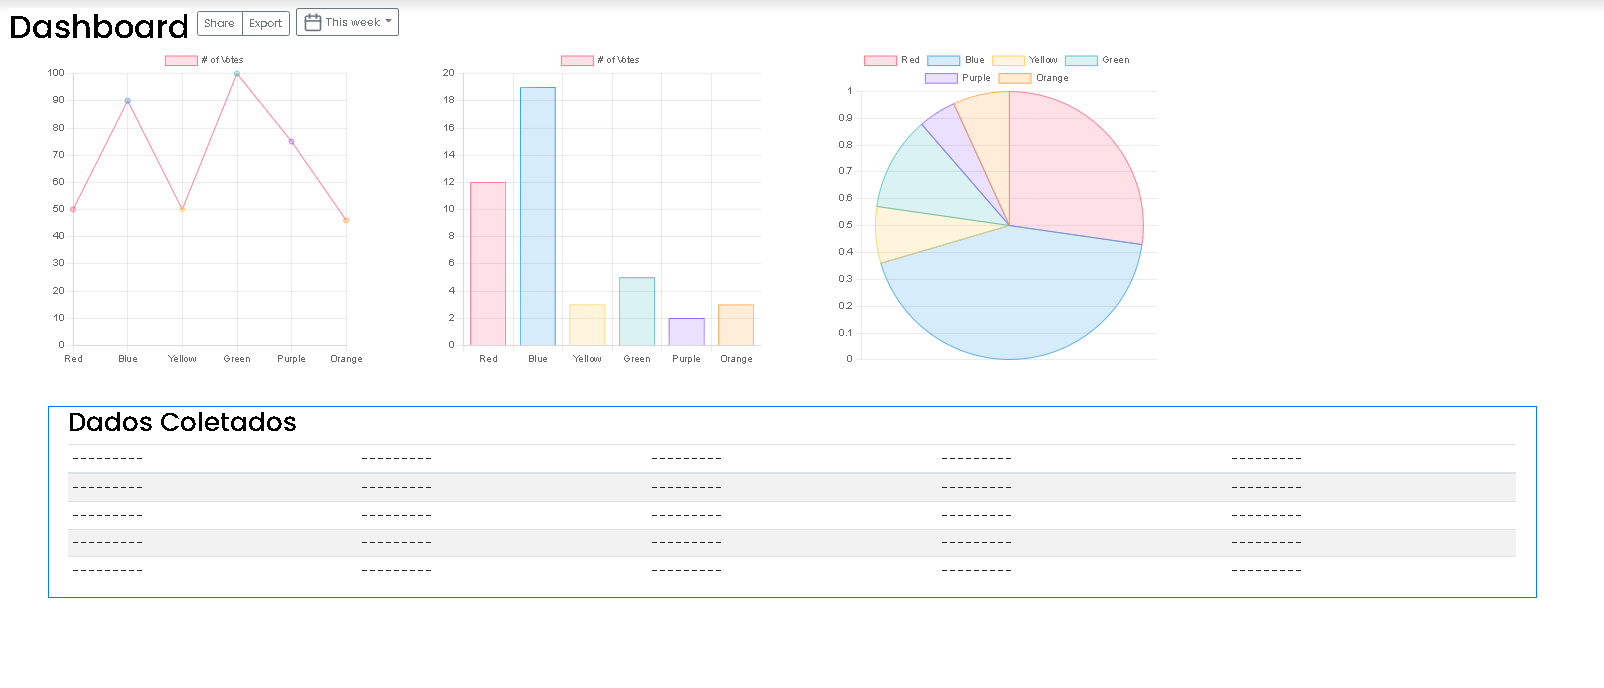
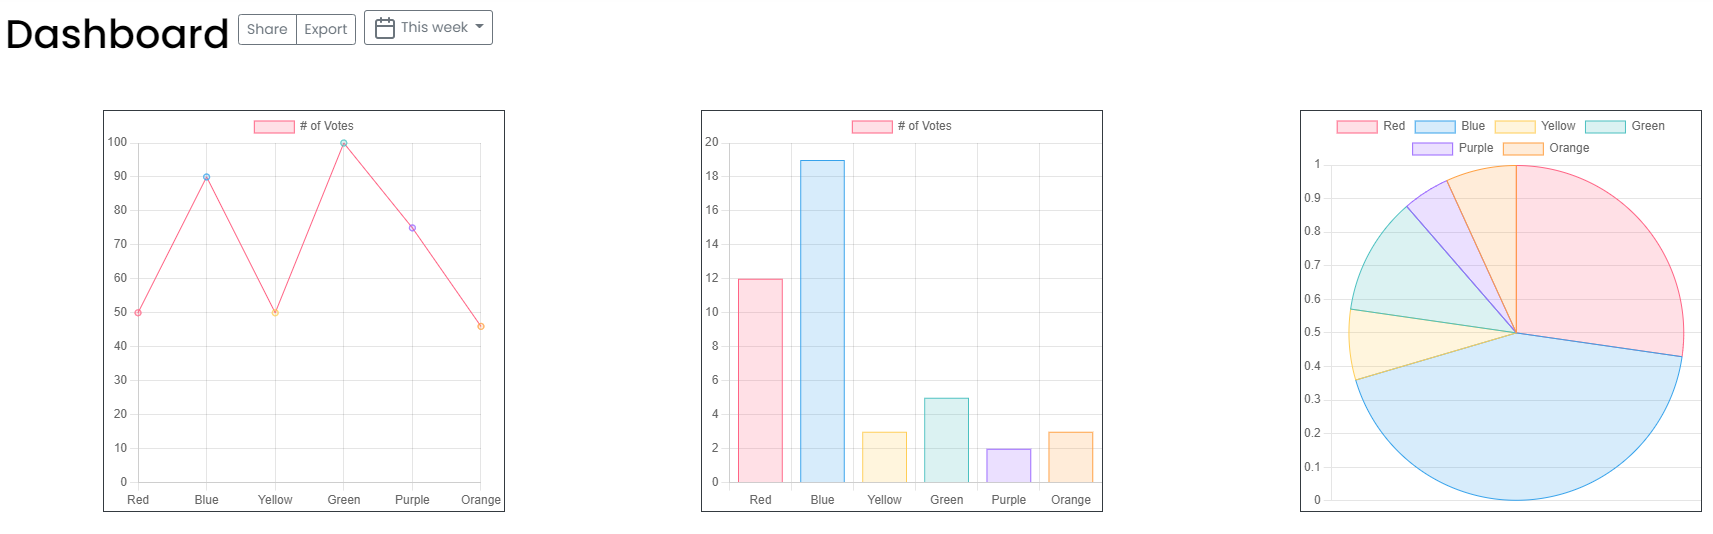
atualizacao home_page2

diff --git a/home_page.html b/home_page.html
@@ -13,6 +13,7 @@
   <link rel="stylesheet" href="https://cdn.jsdelivr.net/npm/bootstrap@4.3.1/dist/css/bootstrap.min.css" integrity="sha384-ggOyR0iXCbMQv3Xipma34MD+dH/1fQ784/j6cY/iJTQUOhcWr7x9JvoRxT2MZw1T" crossorigin="anonymous">
     
   <link rel="stylesheet" type="text/css" href="./style_home_page.css">
+    <link rel="stylesheet" type="text/css" href="./outrocss.css">
     <meta charset="utf-8">
     <meta name="viewport" content="width=device-width, initial-scale=1">
     <meta name="description" content="">
@@ -118,7 +119,7 @@
   <main>
     <div class="principal">
 
-
+        
       <div class="imagem_dash">
     <div class="text_web">
         <div class="web d-flex justify-content-center border-bottom border-secondary"> 
@@ -132,15 +133,15 @@
                           <h1 class="display-6 fw-normal text-secondary">Onde a magica se torna-se realidade !</h1>
           </div>
               </div>
-          <div class="ko dash-bord-center d-flex align-items-center flex-column  border-top border-secondary mt-4">
-          <div class="img_dash pt-4 ">
-        <a>
-          <img src="./img/Dashboard.png" id="dash"  alt="Painel">
-        </a>
-        </div>
-        </div>
-      </div>
+          
     </div>
+      </div>
+      
+      
+      <div class="a">      
+          <img src="./img/Dashboard.png" height="50%" width="70%" center>
+    </div>
+      
       
       <div class="big">
           <div class="container marketing">
@@ -148,8 +149,9 @@
 
     <div class="row featurette">
       <div class="col-md-7">
-        <h2 class="featurette-heading fw-normal lh-1">First featurette heading. <span class="text-muted">It’ll blow your mind.</span></h2>
-        <p class="lead">Some great placeholder content for the first featurette here. Imagine some exciting prose here.</p>
+        <h2 class="featurette-heading fw-normal lh-1">Modelos total mente adaptaveis<span class="text-muted">
+            (Charts)</span></h2>
+        <p class="lead">Non culpa blanditiis ex consequatur eveniet ut nobis impedit! Aut beatae corrupti sit aspernatur voluptas ab tenetur dolorem non commodi dolor sed iure velit. Et adipisci perferendis qui Quis laboriosam sed modi aperiam qui aliquam galisum.</p>
       </div>
       <div class="col-md-5">
           <img src="img/teste.png">
@@ -161,8 +163,8 @@
 
     <div class="row featurette">
       <div class="col-md-7 order-md-2">
-        <h2 class="featurette-heading fw-normal lh-1">Oh yeah, it’s that good. <span class="text-muted">See for yourself.</span></h2>
-        <p class="lead">Another featurette? Of course. More placeholder content here to give you an idea of how this layout would work with some actual real-world content in place.</p>
+        <h2 class="featurette-heading fw-normal lh-1">Graficos de Radar <span class="text-muted">(Veja varias atributos).</span></h2>
+        <p class="lead">Lorem ipsum dolor sit amet, consectetur adipiscing elit. Vivamus ornare leo et ante tristique volutpat. Vivamus convallis sem imperdiet, cursus urna in, efficitur diam. Praesent cursus est vitae turpis lobortis fringilla. Fusce dapibus feugiat felis, at scelerisque mauris tincidunt eget.</p>
       </div>
       <div class="image col-md-5 border">
           <img src="img/teste2.png">
@@ -173,8 +175,8 @@
 
     <div class="row featurette">
       <div class="col-md-7">
-        <h2 class="featurette-heading fw-normal lh-1">And lastly, this one. <span class="text-muted">Checkmate.</span></h2>
-        <p class="lead">And yes, this is the last block of representative placeholder content. Again, not really intended to be actually read, simply here to give you a better view of what this would look like with some actual content. Your content.</p>
+        <h2 class="featurette-heading fw-normal lh-1">Graficos de Setores <span class="text-muted">(Verifique a abundancia)</span></h2>
+        <p class="lead">Cum ipsum error id ullam porro ut repellat autem et quae quia et debitis pariatur. Aut provident earum in soluta libero est rerum quam sit adipisci aspernatur sit alias voluptatum..</p>
       </div>
       <div class="col-md-5">
           <img src="img/teste3.png">
@@ -192,9 +194,10 @@
     <div class="next_1 justify-content-center d-flex w-100">
       <section class="sla">
 	<div class="container">
-		<div class="row g-4">
+		<div class="row">
             
 			<div class="col-sm-6 col-xl-3">
+                
 				<div class="d-flex justify-content-center align-items-center p-4 bg-success border border-dark rounded">
             <div class="icon-user">
              <svg xmlns="http://www.w3.org/2000/svg" width="45" height="45" fill="currentColor" class="bi bi-people-fill" viewBox="0 0 16 16">
@@ -208,7 +211,7 @@
 							<h5 class="purecounter mb-0 fw-bold" data-purecounter-start="0" data-purecounter-end="10" data-purecounter-delay="200" data-purecounter-duration="0">10</h5>
 							<span class="mb-0 h5">K</span>
 						</div>
-						<p class="mb-0">Usuarios diarios</p>
+						<p class="mb-0 es">Usuarios diarios</p>
 					</div>
 				</div>
 			</div>

diff --git a/style_home_page.css b/style_home_page.css
@@ -42,10 +42,6 @@
 }
 .img_dash
 {
-    display: flex;
-    justify-content: center;
-    margin-top: 30px;
-    margin-bottom: 30px;
 }
 .next_1
 {
@@ -69,6 +65,8 @@
 .centralizar
 {
     padding-top: 60px;
+    justify-content: space-around;
+    align-items: center;
 }
 .cartao-1
 {
@@ -88,7 +86,6 @@
 .card1
 {
     background-color: #daffda;
-    padding-bottom: 16px
 }
 .card2
 {
@@ -113,7 +110,7 @@
 }
 .big
 {
-    margin-bottom: 30px;
+    margin-bottom: 70px;
 }
 .sla {
     border-style: solid;

diff --git a/outrocss.css b/outrocss.css
@@ -332,3 +332,31 @@ padding-top: 68px;
     display: flex;
     justify-content: center;
 }
+
+#icons {
+    display: flex;
+    flex-direction: column;
+}
+
+.ko {
+    display:flex;
+    border: solid;
+    border-color: black;
+    width: 70%;
+    height: 70%;
+}
+
+
+
+.a {
+
+    display: flex;
+    justify-content: center;
+    align-items: center;
+    margin-bottom: 50px;
+    margin-top: 50px;
+}
+
+.es {
+    
+}
